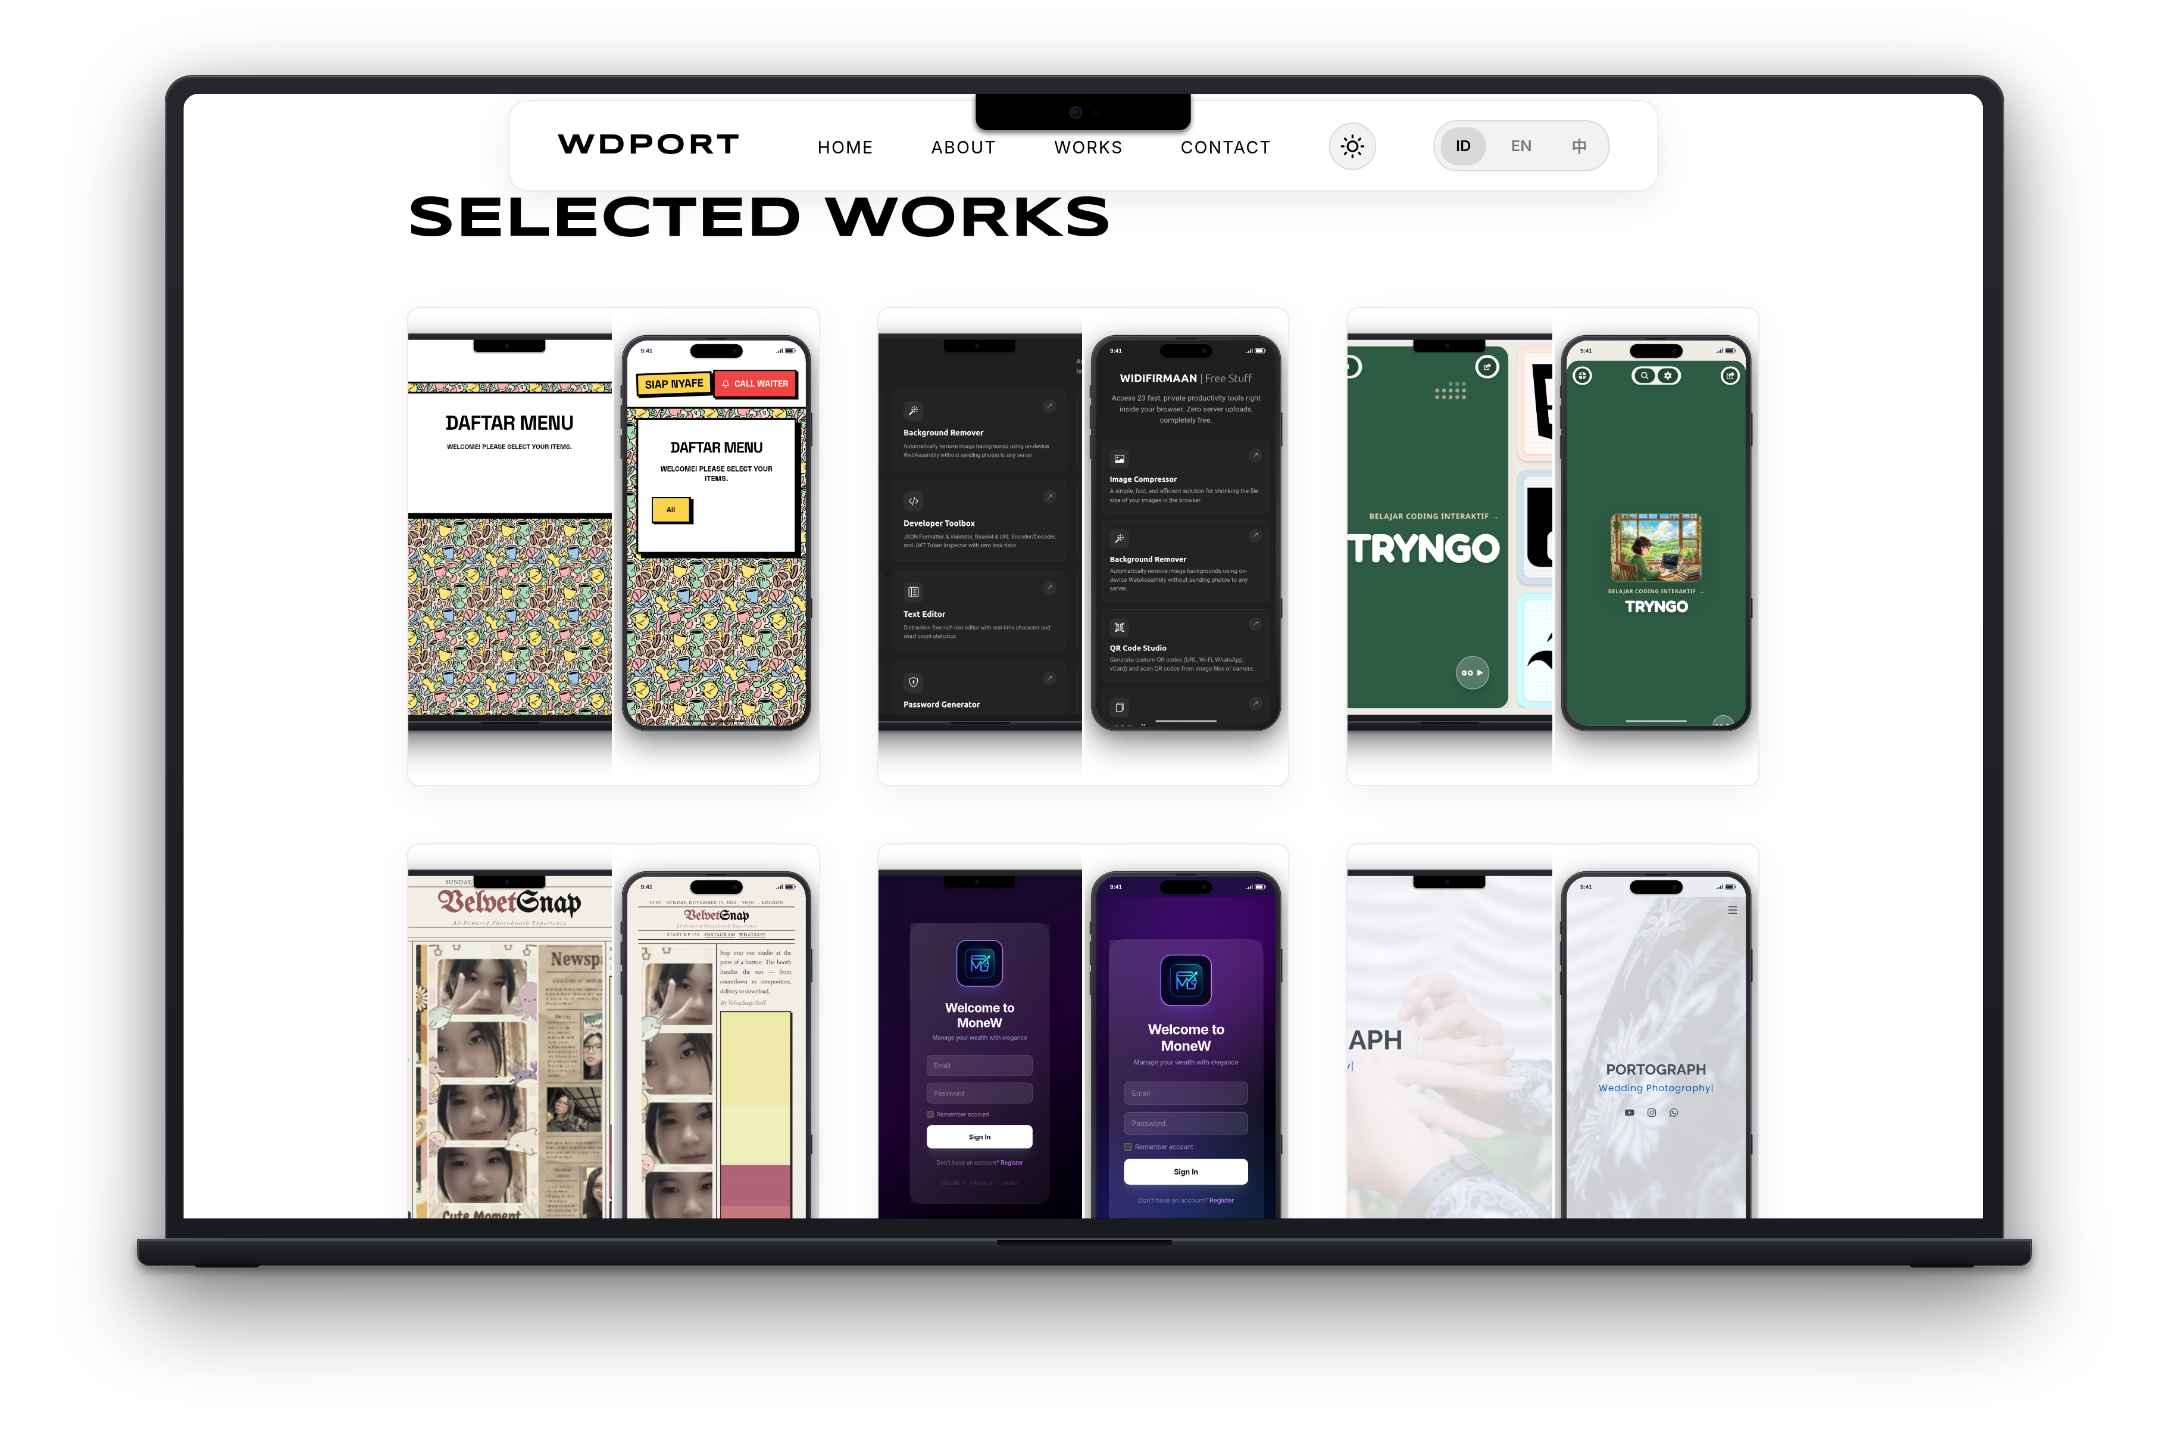
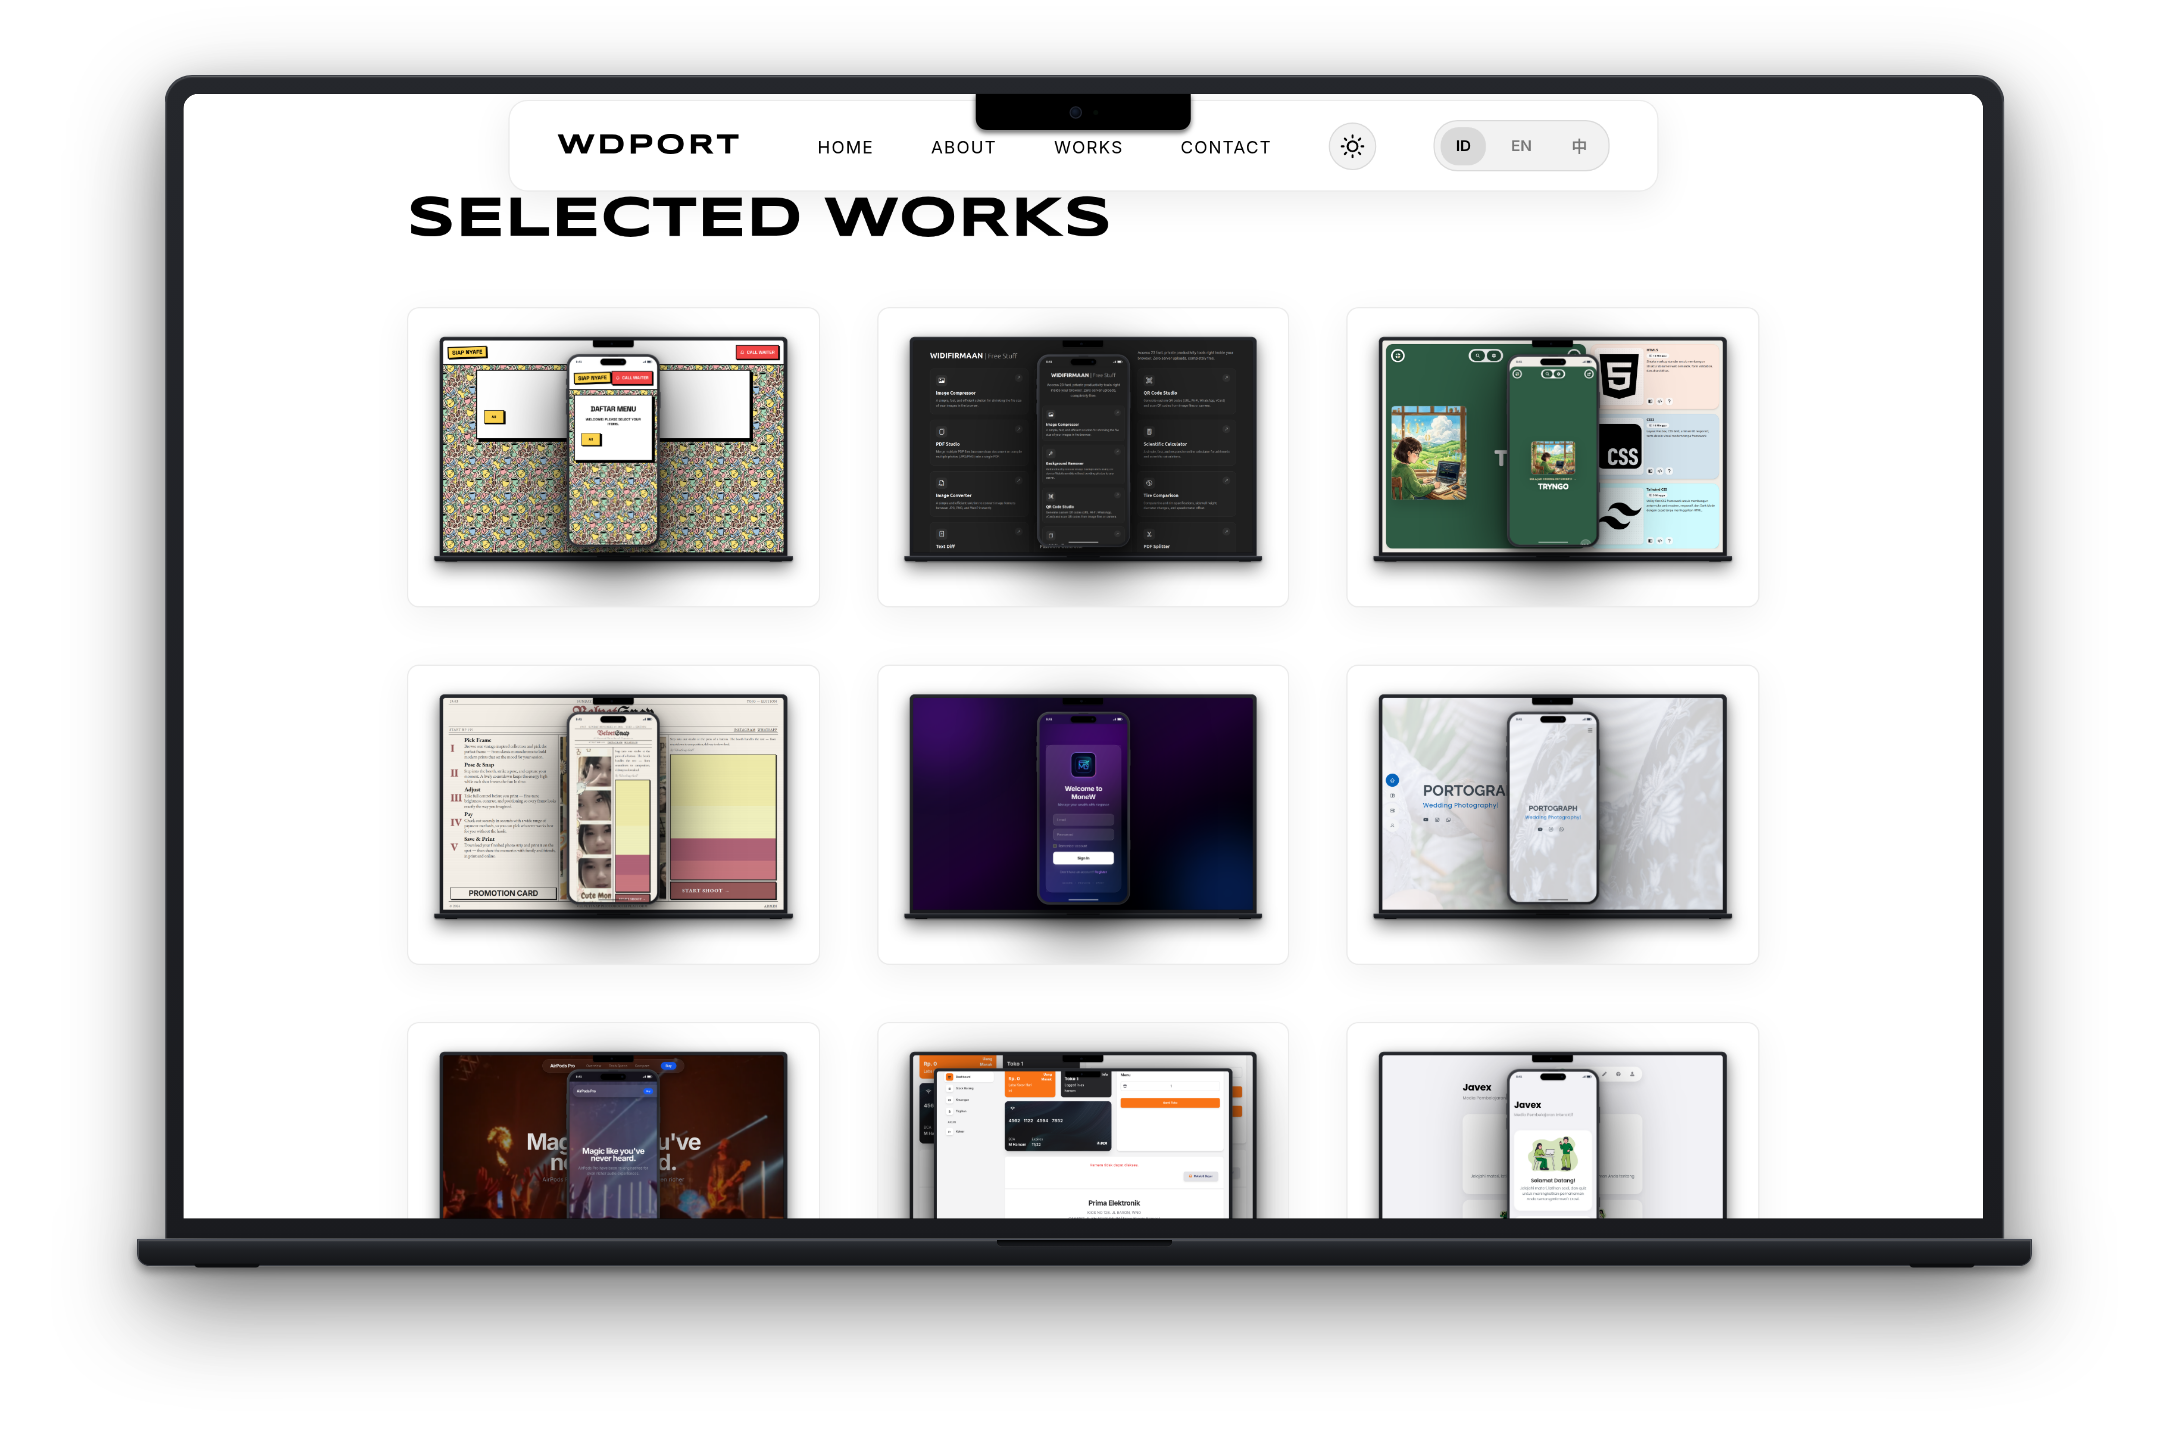
feat(ui): implement device pairing layout (full desktop + centered floating mobile overlay) and update showcase mockups

Changed region(s): [[0.1853, 0.2155, 0.8336, 0.8621]]

diff --git a/style.css b/style.css
@@ -457,23 +457,57 @@ section {
 }
 
 .project-image {
+    position: relative;
     width: 100%;
-    height: 400px;
+    height: 250px;
     overflow: hidden;
+    background: rgba(255, 255, 255, 0.02);
+    display: flex;
+    align-items: center;
+    justify-content: center;
 }
 
 .project-image img {
     width: 100%;
     height: 100%;
     object-fit: cover;
-    transition: transform 0.7s ease;
+    transition: transform 0.6s cubic-bezier(0.16, 1, 0.3, 1);
 }
 
-/* Grid Layouts for Multiple Images */
+/* Device Pairing Layout (Full Desktop + Centered Floating Mobile Overlay) */
 .project-image.grid-2 {
-    display: grid;
-    grid-template-columns: repeat(2, 1fr);
-    gap: 2px;
+    display: block;
+    position: relative;
+}
+
+.project-image.grid-2 img:first-child {
+    width: 100%;
+    height: 100%;
+    object-fit: contain;
+    object-position: center;
+    display: block;
+    transition: transform 0.6s cubic-bezier(0.16, 1, 0.3, 1);
+}
+
+.project-image.grid-2 img:last-child {
+    position: absolute;
+    height: 78%;
+    width: auto;
+    left: 50%;
+    top: 50%;
+    transform: translate(-50%, -50%);
+    object-fit: contain;
+    filter: drop-shadow(0 15px 30px rgba(0, 0, 0, 0.8));
+    transition: transform 0.6s cubic-bezier(0.16, 1, 0.3, 1);
+    z-index: 2;
+}
+
+.project-card:hover .project-image.grid-2 img:first-child {
+    transform: scale(1.03);
+}
+
+.project-card:hover .project-image.grid-2 img:last-child {
+    transform: translate(-50%, -55%) scale(1.08);
 }
 
 .project-image.grid-3 {
@@ -492,10 +526,6 @@ section {
     grid-template-columns: repeat(2, 1fr);
     grid-template-rows: repeat(2, 1fr);
     gap: 2px;
-}
-
-.project-card:hover .project-image img {
-    transform: scale(1.1);
 }
 
 .project-info {
@@ -952,7 +982,7 @@ footer {
     }
 
     .project-image {
-        height: 300px;
+        height: 230px;
     }
 
     .cursor,

diff --git a/index.html b/index.html
@@ -140,7 +140,7 @@
         <!-- Performance / Preconnect -->
         <link rel="preconnect" href="https://fonts.googleapis.com" />
         <link rel="preconnect" href="https://fonts.gstatic.com" crossorigin />
-        <link rel="stylesheet" href="style.css?v=4.5" />
+        <link rel="stylesheet" href="style.css?v=4.6" />
         <link
             href="https://fonts.googleapis.com/css2?family=Inter:wght@300;400;600&family=Syncopate:wght@700&display=swap"
             rel="stylesheet"
